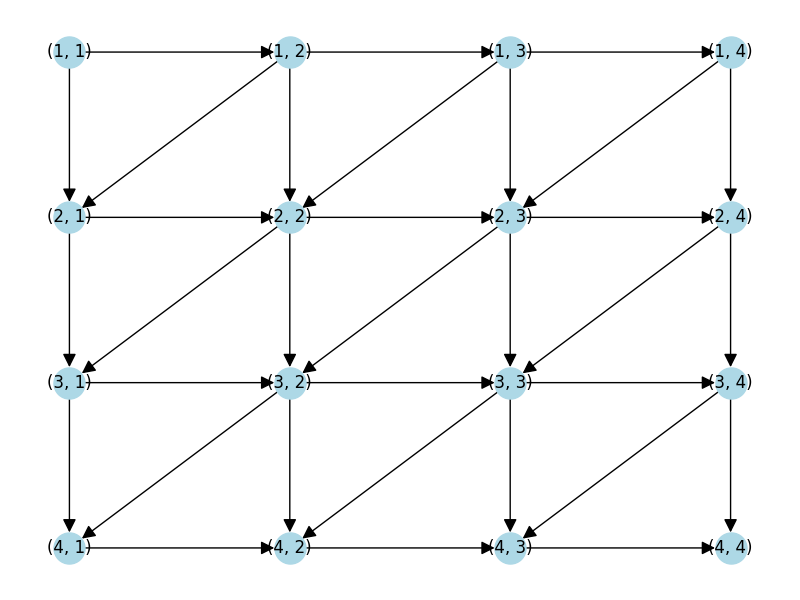
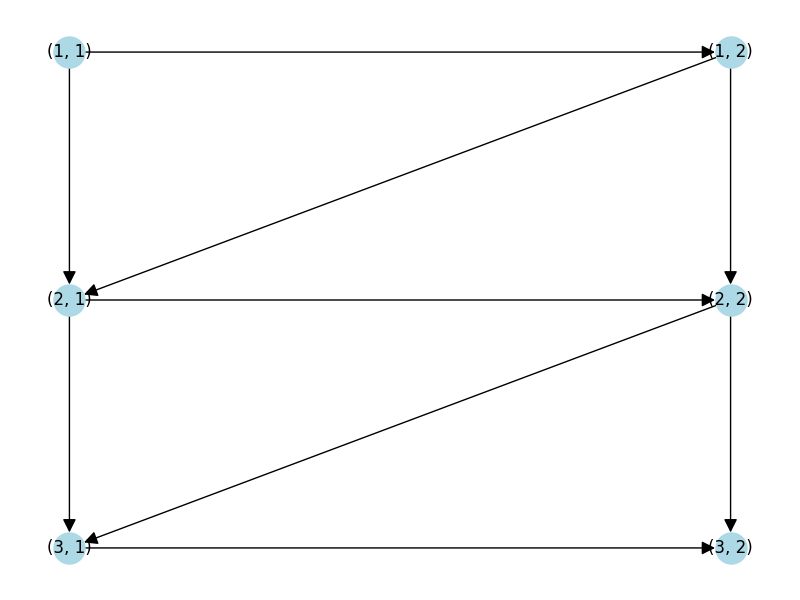
donated termination

diff --git a/lab2/dependency_analyzer.py b/lab2/dependency_analyzer.py
@@ -129,8 +129,8 @@ class DependencyAnalyzer:
 
 if __name__ == "__main__":
 
-    M_val = 4
-    N_val = 5 # i идет от 1 до 5
+    M_val = 3
+    N_val = 3 # i идет от 1 до 5
     
     analyzer = DependencyAnalyzer(M_val, N_val)
     analyzer.run_simulation()
